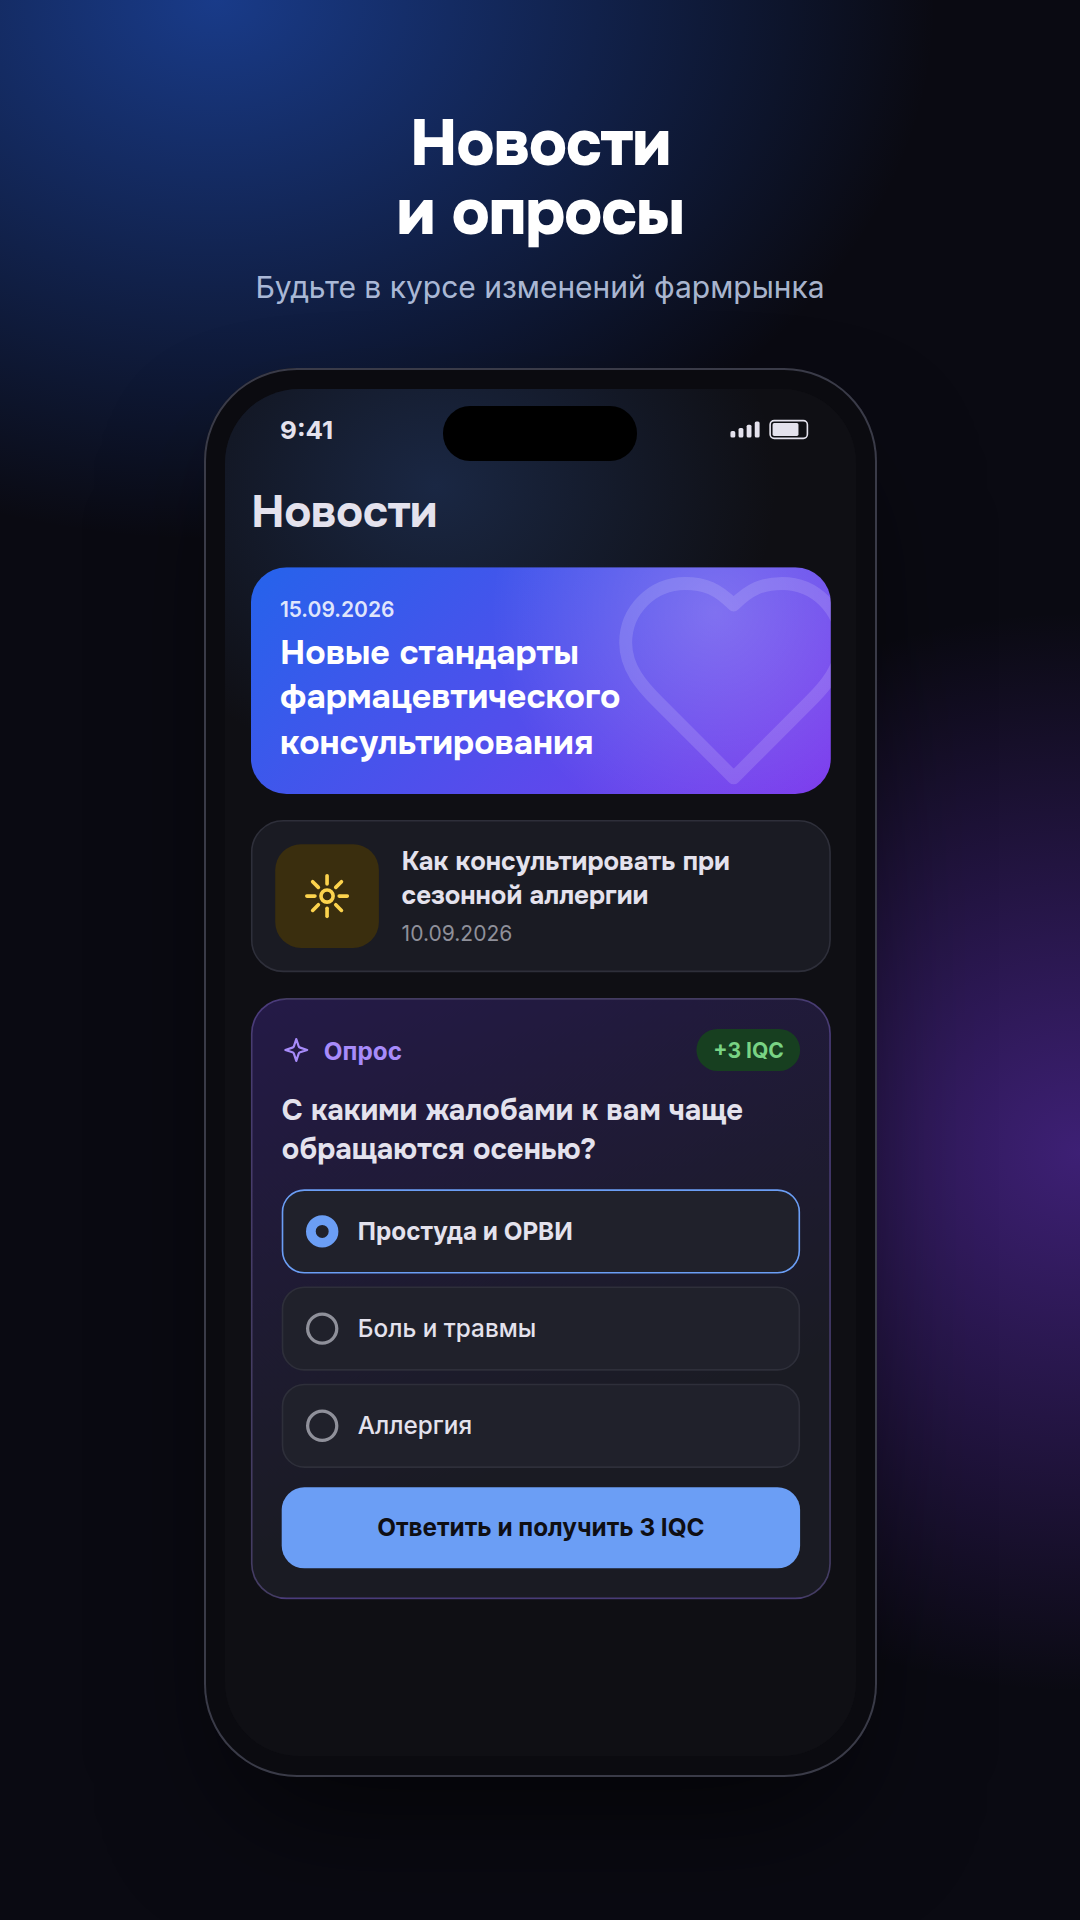
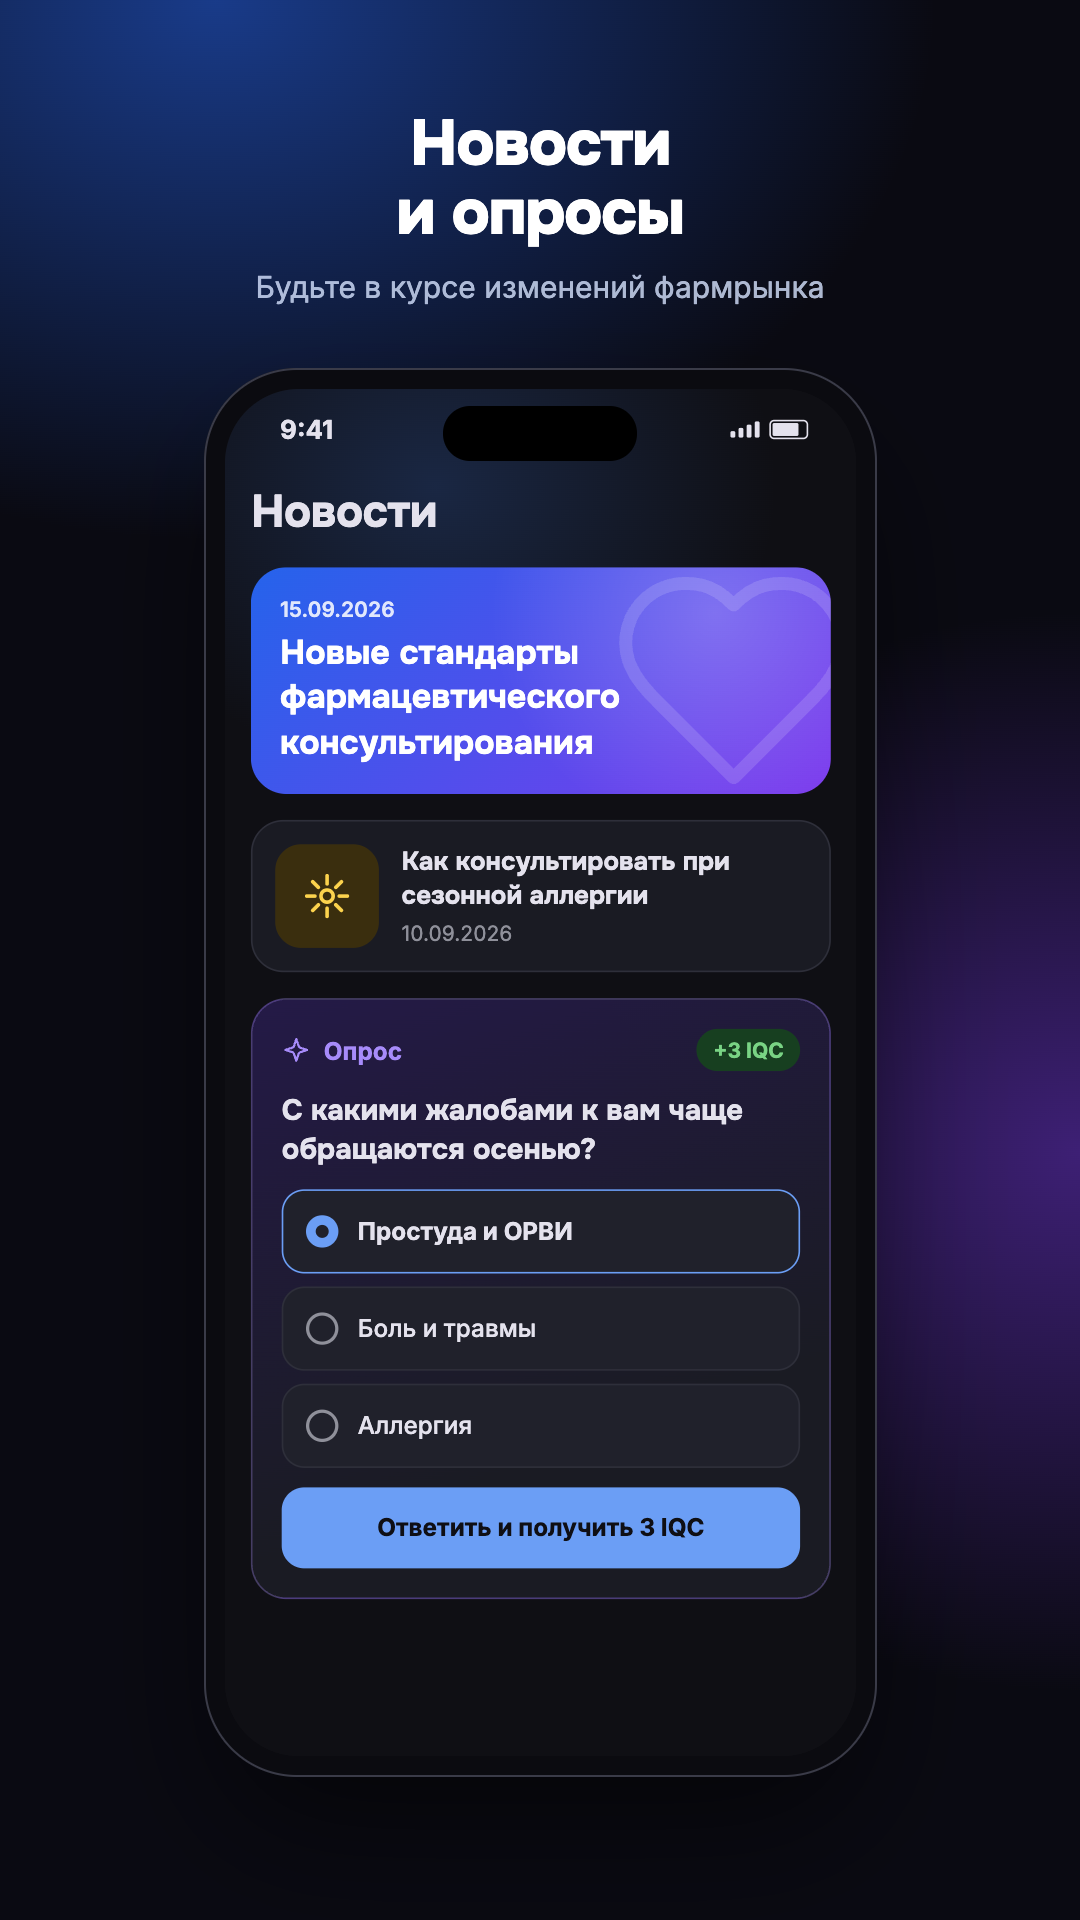
Сторы 1.2: скриншоты из макетов и тексты обновления
Скриншоты отрендерены из артбордов дизайн-канваса: App Store 1290×2796,
Google Play 1080×1920 и feature graphic. В набор идут пять экранов —
обучение, урок, тест, «Тест сдан» и шестой из набора; экран обмена IQC
на подарочные карты из витрины исключён.

Тексты «Что нового» для обоих сторов — docs/store/release-notes-1.2.md.
Версия App Store 1.2.0 со сборкой 3 уже заполнена через API и ждёт отправки.

diff --git a/docs/store/release-notes-1.2.md b/docs/store/release-notes-1.2.md
@@ -1,0 +1,33 @@
+# Тексты обновления 1.2
+
+## App Store — «Что нового» (уже записано в версию 1.2.0 через API)
+
+Полностью обновлённый дизайн приложения.
+
+• Новый вид всех экранов: главная, чеки, квесты, обучение, кошелёк и профиль
+• Тёмная и светлая темы — приложение подстраивается под настройку телефона
+• Обучающий тур при первом входе: показываем, где что находится
+• Понятные статусы чеков и начислений IQC
+• Кошелёк: обмен баллов, магазин и архив ваучеров в одном месте
+• Ускорили работу списков и исправили ошибки
+
+## Google Play — «Что нового» (до 500 знаков)
+
+Полностью обновлённый дизайн.
+
+• Новый вид всех экранов: главная, чеки, квесты, обучение, кошелёк, профиль
+• Тёмная и светлая темы — по настройке телефона
+• Обучающий тур при первом входе
+• Понятные статусы чеков и начислений IQC
+• Кошелёк: обмен баллов, магазин и архив ваучеров в одном месте
+• Ускорили списки и исправили ошибки
+
+## Скриншоты
+
+Отрендерены из макетов дизайн-канваса (артборды StoreIOS01–06 и StorePlay01–06).
+В сторы идут пять: обучение, урок, тест, «Тест сдан» и шестой из набора.
+Экран обмена IQC на подарочные карты из витрины исключён, чтобы не вызывать
+у проверяющих вопросов о платном контенте.
+
+- App Store: `assets/appstore/01…05.png` — 1290×2796
+- Google Play: `assets/googleplay/01…05.png` — 1080×1920, плюс `feature-graphic-1024x500.png`
